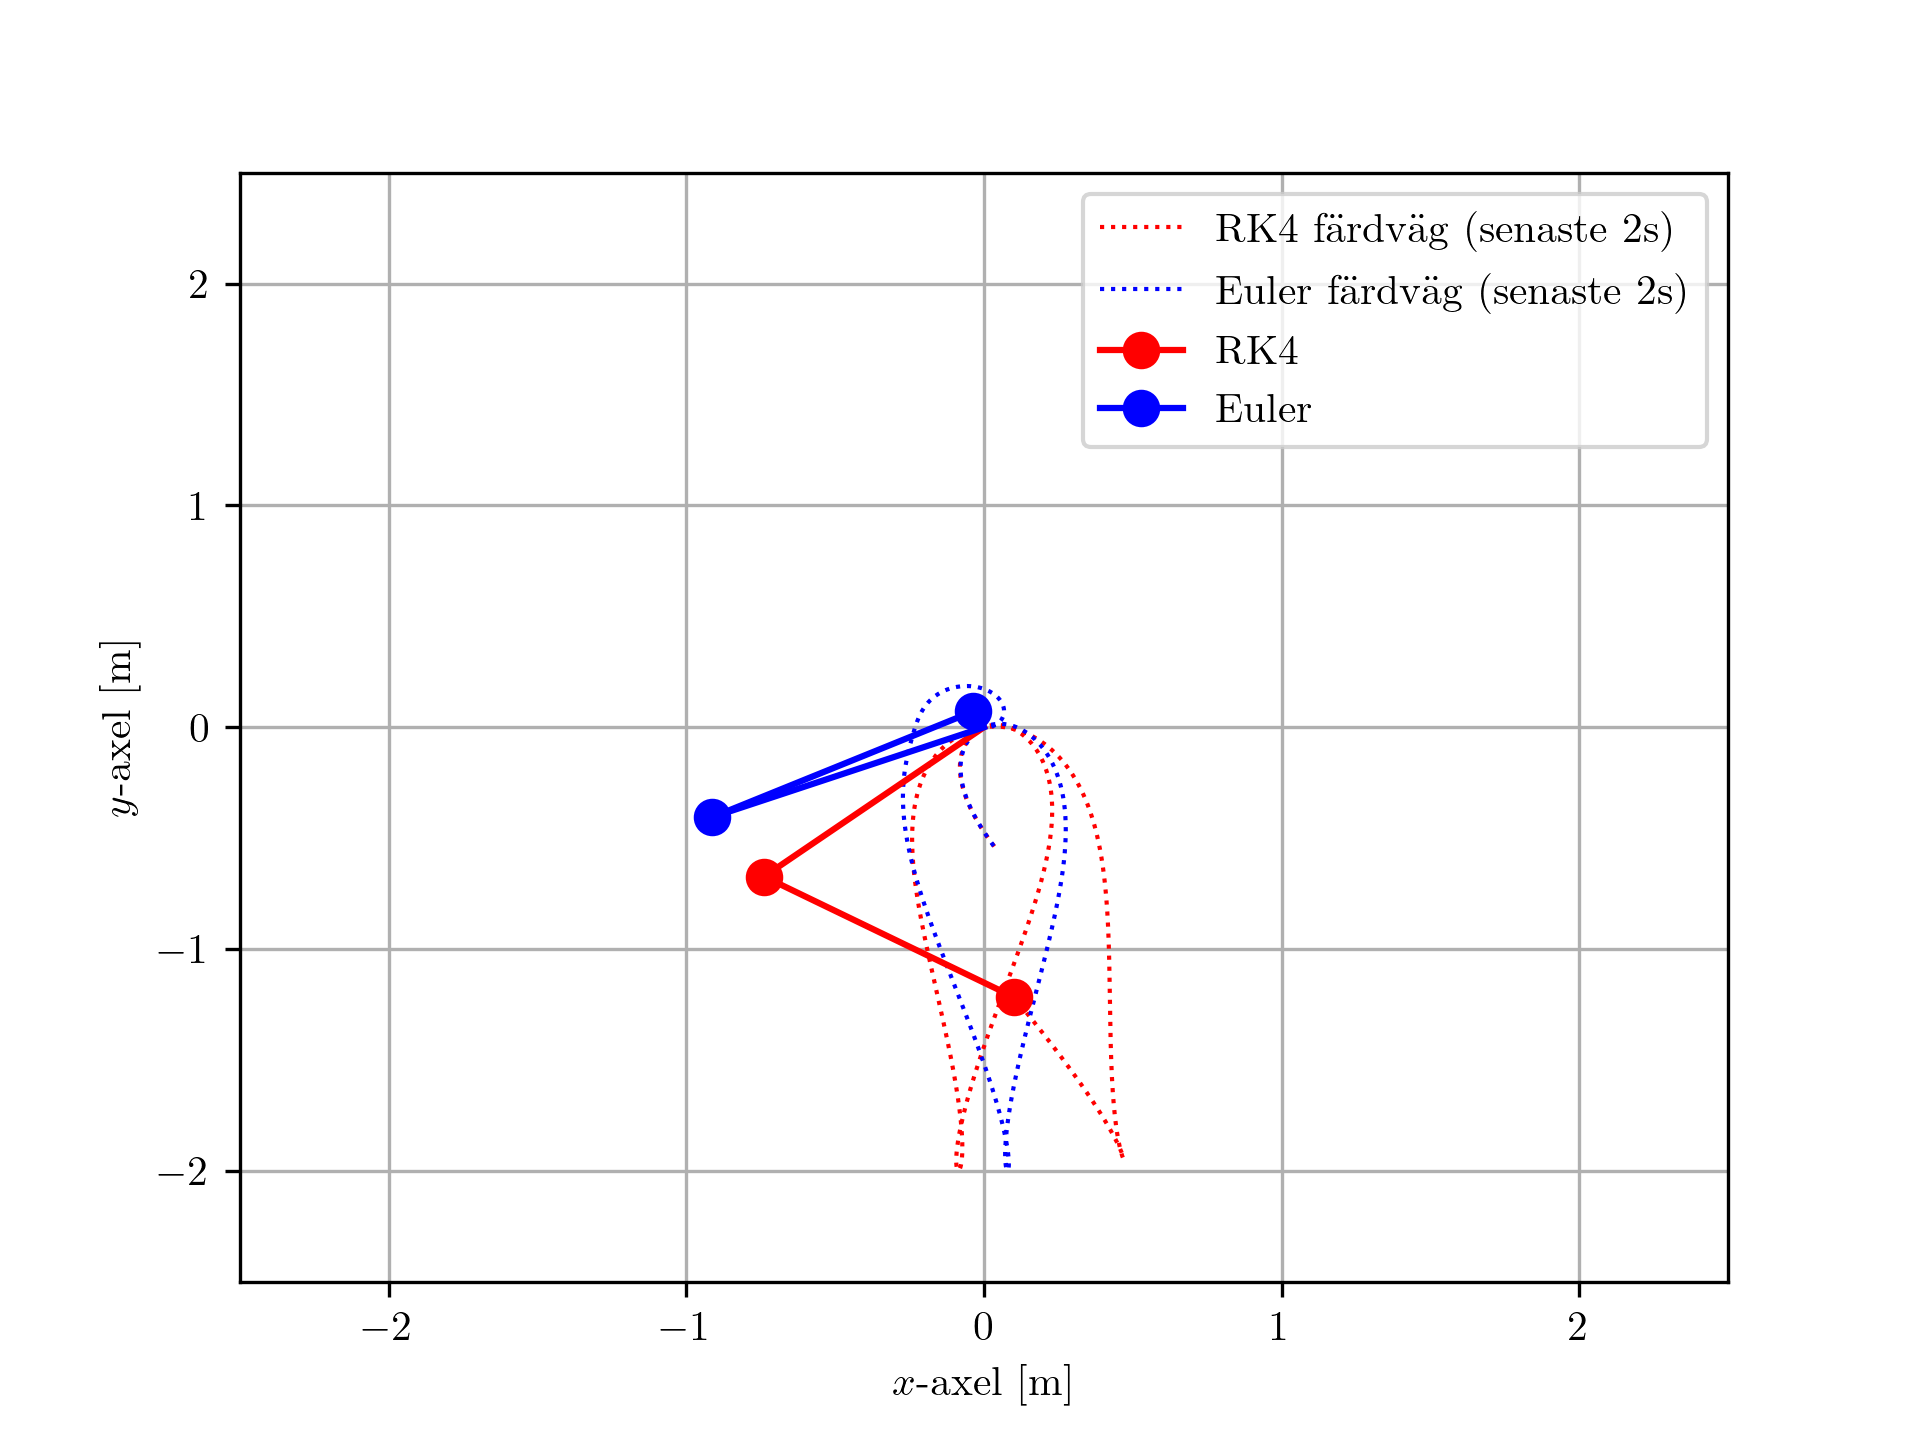
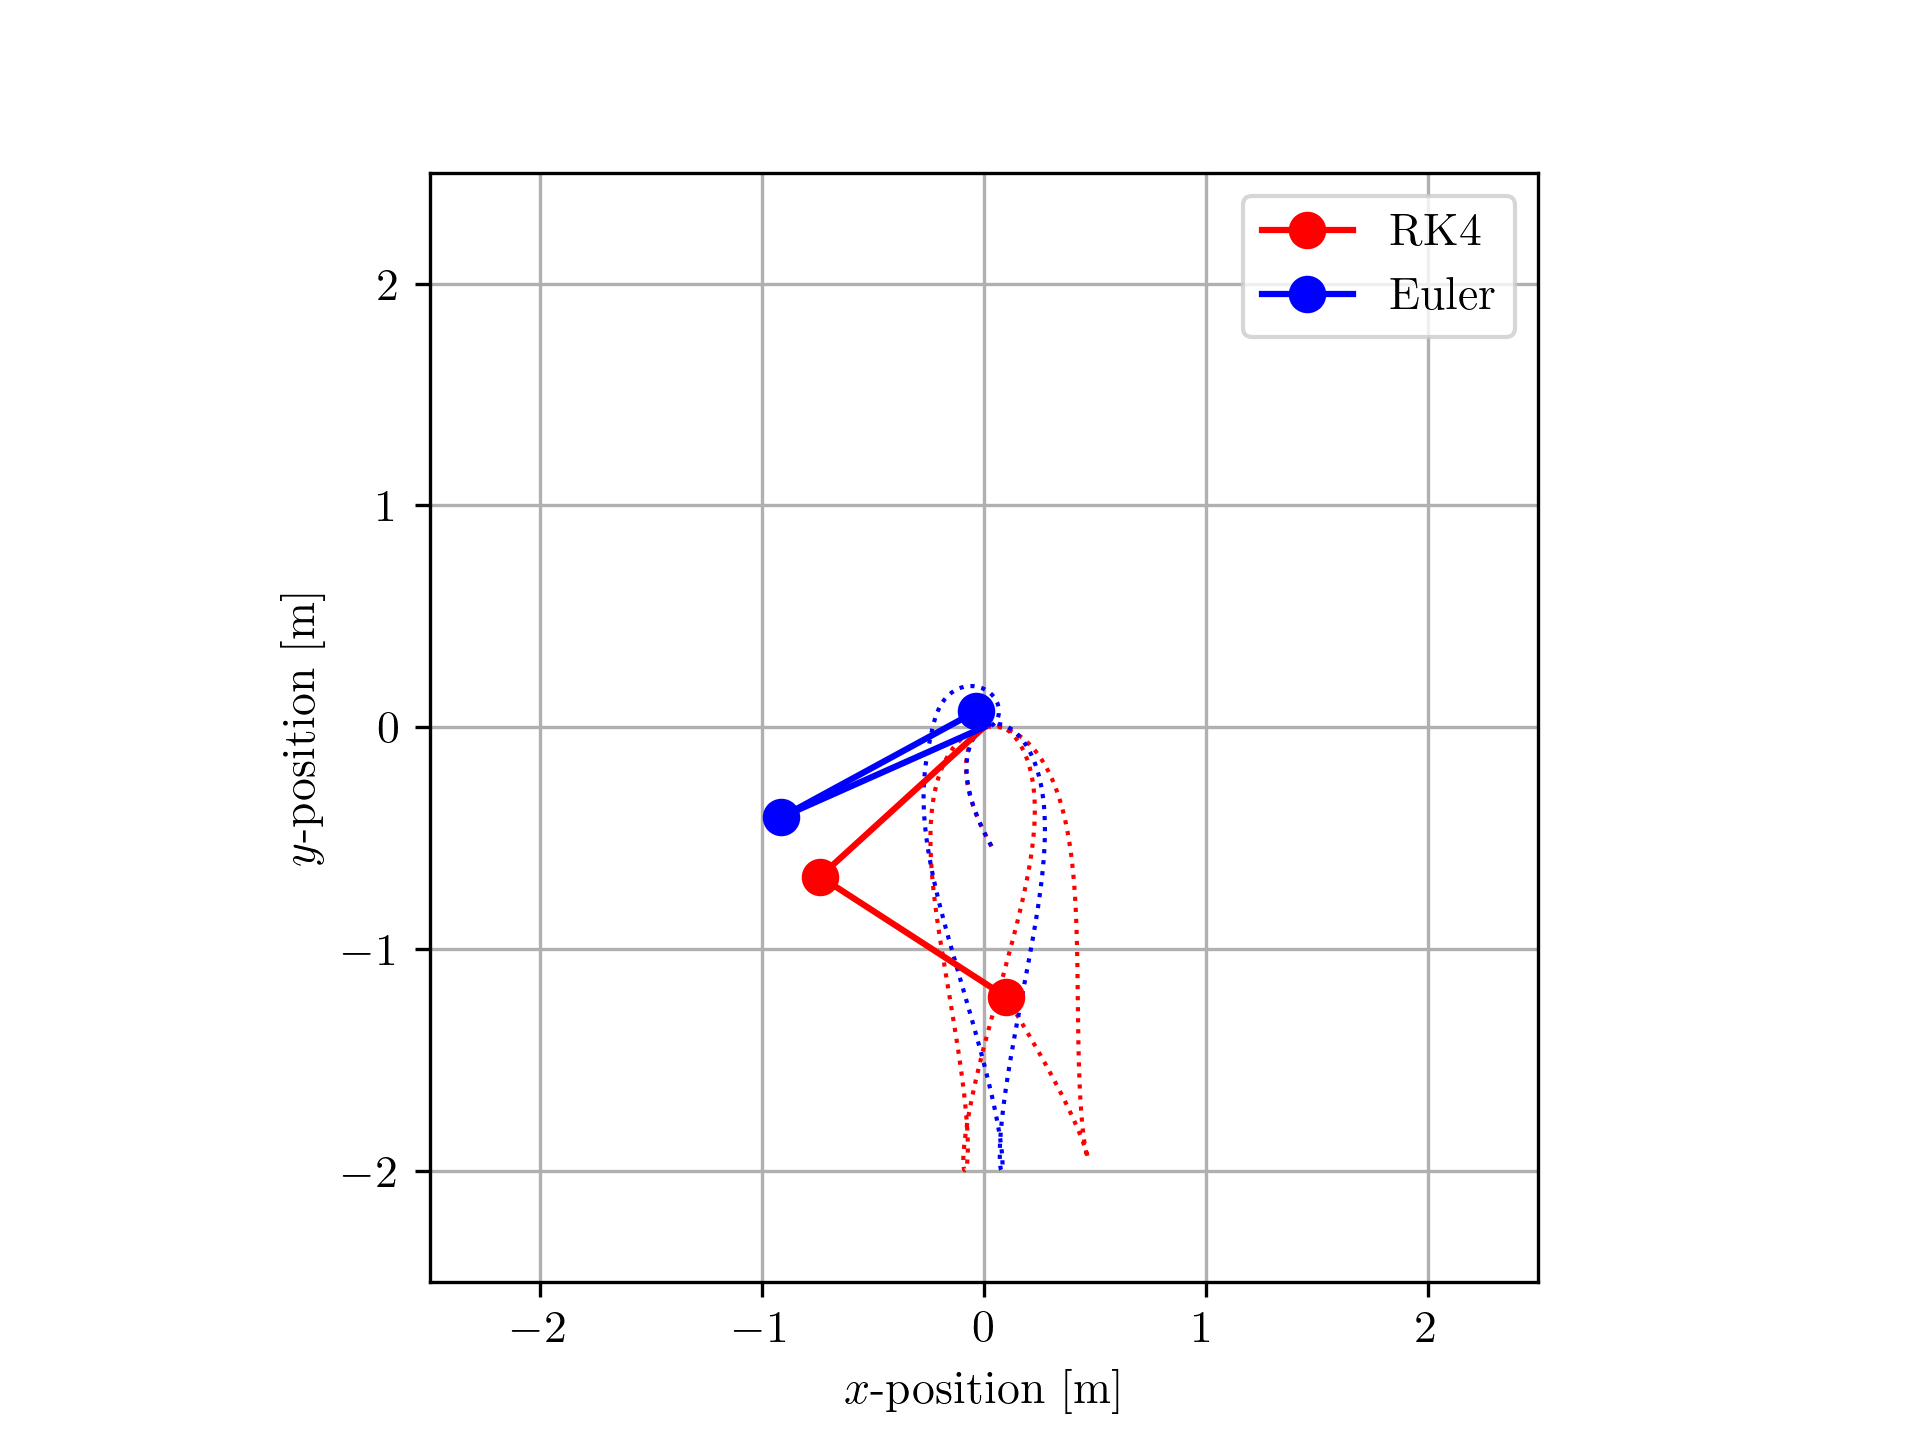
commented runge-kuttta-plot.py

diff --git a/code/runge-kutta-plot.py b/code/runge-kutta-plot.py
@@ -1,35 +1,52 @@
+### This code generates a still image of a double pendulum and its corresponding path of the second mass, which the second mass has traversed until a specific time $t$ (which is specified by the user). 
+# The double pendulum is simulated with the RK4 method. 
+
 import matplotlib.pyplot as plt 
 import numpy as np
-from matplotlib.animation import FuncAnimation
 
-plt.rc('font', size = 11, family='serif')
-plt.rc('text', usetex=True)
-plt.rc('font', serif='Computer Modern')
+################
+# Initial conditions
+m_1 = 1 # mass 1[kg]
+m_2 = 1 # mass 2[kg]
+l_1 = 1 # length of rod 1 [m]
+l_2 = 1 # length of rod 2 [m]
+g = 9.82 # gravitational acceleration [m/s^2]
 
-the1 = float(eval(input("Ange startvinkeln for theta_1: ")))
-the2 = float(eval(input("Ange startvinkeln for theta_2: ")))
-ome1 = 0
-ome2 = 0
-h = 0.00005
+ome1 = 0 # angular velocity of the1 [rad/s]
+ome2 = 0 # angular velocity of the2 [rad/s]
+################ 
+
+##############
+# User input for starting angles
+the1 = float(eval(input("Ange startvinkeln for theta_1: "))) # angle 1 [rad]
+the2 = float(eval(input("Ange startvinkeln for theta_2: "))) # angle 2 [rad]
+
+# User input for simulation time
 t_tot= float(input("Hur manga sekunder vill du simulera pendeln? "))
-t0 = 0
+##############
 
-m_1 = 1
-m_2 = 1
-l_1 = 1
-l_2 = 1
-g = 9.82
+##############
+# Conditions for simulation
+h = 0.00005 # time step [s]
+t0 = 0 # initial time [s]
+###############
 
-the1_list = [the1]
-the2_list = [the2]
-x1pos = []
-y1pos = []
-x2pos = []
-y2pos = []
+################
+# Define lists that will be used in simulation to store data
+the1_list = [the1] # list with the1 angles
+the2_list = [the2] # list with the2 angles
+x1pos = [] # list with x1 positions
+y1pos = [] # list with y1 positions
+x2pos = [] # list with x2 positions
+y2pos = [] # list with y2 positions
+################
 
+# Define state vector, which describes the pendulums state
 state = np.array([the1, ome1, the2, ome2])
 
+### Define function that calculates next domega1 and domega2, returns an array which is the time derivative of the 'state' array 
 def derivative(state):
+    ### calculates coefficients for RK4-method
     the1, ome1, the2, ome2 = state
     dtheta = the1 - the2
     alpha = (m_1 + m_2)*l_1
@@ -42,10 +59,9 @@ def derivative(state):
     domega1 = (delta*epsilon - beta*zeta)/(alpha*delta - beta*gamma) # calculates new domega1
     domega2 = (alpha*zeta - gamma*epsilon)/(alpha*delta - beta*gamma) # calculates new domega2
 
-    return np.array([ome1, domega1, ome2, domega2])
+    return np.array([ome1, domega1, ome2, domega2]) ## returns array which is the time derivative of the 'state' array
 
 while t0 < t_tot + h:
-    #calculate coordinates of pendulum
     ## calculates coordinates of mass 1
     x1 = l_1*np.sin(state[0])
     x1pos.append(x1)
@@ -58,42 +74,53 @@ while t0 < t_tot + h:
     y2 = -1 * l_1*np.cos(state[0]) - l_2*np.cos(state[2])
     y2pos.append(y2)
 
+    ## calculates K1 through K4 according to RK4 method
     K1 = derivative(state)
     K2 = derivative(state + h/2 * K1)
     K3 = derivative(state + h/2 * K2)
     K4 = derivative(state + h * K3)
 
-    state = state + h/6 * (K1 + 2*K2 + 2*K3 + K4)
+    ## define next state
+    state = state + h/6 * (K1 + 2*K2 + 2*K3 + K4) 
 
     the1_list.append(state[0])
     the2_list.append(state[2])
 
-    t0 += h
+    ## for each iteration, add time step to current time
+    t0 += h 
 
+###############
+# Makes font to Metafont (same as in LaTeX)
+plt.rc('font', size = 11, family='serif')
+plt.rc('text', usetex=True)
+plt.rc('font', serif='Computer Modern')
+################
+
+################
+# Plots axis, axis-labels and grid
 ax = plt.gca()
 ax.set_xlim([-2.5,2.5])
 ax.set_ylim([-2.5,2.5])
-#ax.set_title('Animering av dubbelpendel - RK4 - t=0s')
-
-plt.grid()
-
-plt.plot(x2pos, y2pos, color='red', ls=(0,(1,10)), label='Path of mass 2')
-plt.plot([0,x1pos[-1]], [0,y1pos[-1]], color='blue')
-plt.plot([x1pos[-1], x2pos[-1]], [y1pos[-1], y2pos[-1]], color='blue')
-plt.plot(x1pos[-1], y1pos[-1], 'o', markersize=15, color='red')
-plt.plot(x2pos[-1], y2pos[-1], 'o', markersize=15, color='red')
+ax.set_aspect('equal', adjustable='box')
 
 plt.xlabel(' $x$-position [m]')
 plt.ylabel('$y$-position [m]')
 
-ax = plt.gca()
-ax.set_xlim([-2.5, 2.5])
-ax.set_ylim([-2.5, 2.5])
-ax.set_aspect('equal', adjustable='box')
-# plt.plot(xpos,ypos)
 
-plt.savefig(f'runge-kutta_plots/runge-kutta_plot_the1={the1}_the2={the2}_at_{t_tot}s.png', dpi=300)
+plt.grid()
+################
 
+################
+# Plots the pendulum
+plt.plot(x1pos[-1], y1pos[-1], 'o', markersize=15, color='red') ## plots mass 1
+plt.plot(x2pos[-1], y2pos[-1], 'o', markersize=15, color='red') ## plots mass 2
+plt.plot([0,x1pos[-1]], [0,y1pos[-1]], color='blue') # plots rod 1
+plt.plot([x1pos[-1], x2pos[-1]], [y1pos[-1], y2pos[-1]], color='blue') # plots rod 2
+plt.plot(x2pos, y2pos, color='red', ls=':', label='Färdväg av massa 2') # plots path of mass 2
+################
+
+# Saves png to directory, commented away currently as to make it easer to run independently
+#plt.savefig(f'runge-kutta_plots/runge-kutta_plot_the1={the1}_the2={the2}_at_{t_tot}s.png', dpi=300)
+
+# Plots figure
 plt.show()
-
-

diff --git a/code/combined_euler_rk4.py b/code/combined_euler_rk4.py
@@ -1,6 +1,5 @@
 import matplotlib.pyplot as plt 
 import numpy as np
-from matplotlib.animation import FuncAnimation
 
 plt.rc('font', size = 11, family='serif')
 plt.rc('text', usetex=True)
@@ -222,9 +221,8 @@ else: ## if t_tot is not 0, calculate the positions for both methods for the who
     plt.grid()
     ############################
 
-### saves plot to directory
-plt.savefig(f'combined_euler_rk4_plots/combined_euler_rk4_plot_at_t={t_tot}s_the1={the1_gbl}_the2={the2_gbl}.png', dpi=300)
+### saves plot to directory (optional to include, therefore is commented away in this code)
+#plt.savefig(f'combined_euler_rk4_plots/combined_euler_rk4_plot_at_t={t_tot}s_the1={the1_gbl}_the2={the2_gbl}.png', dpi=300)
 
 ## shows plot
 plt.show()
-
